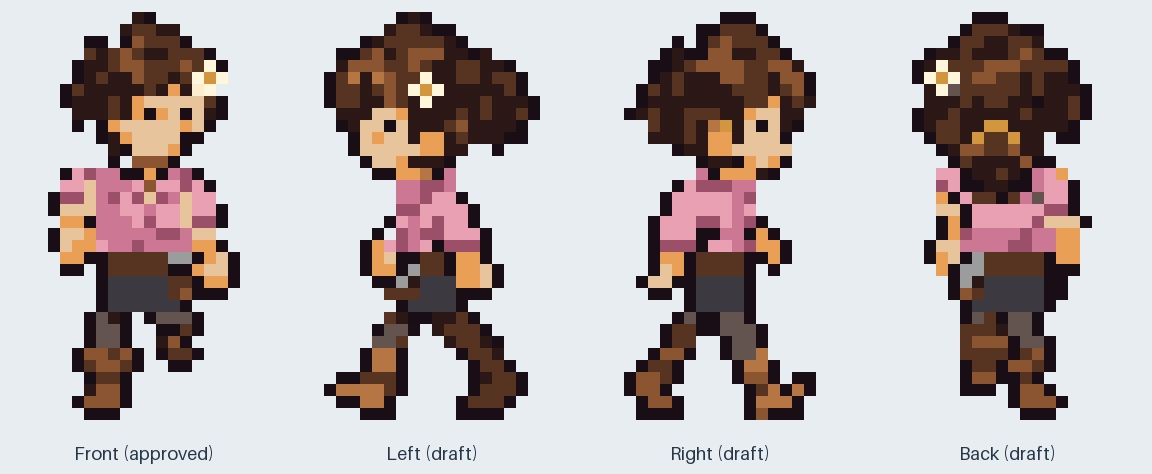
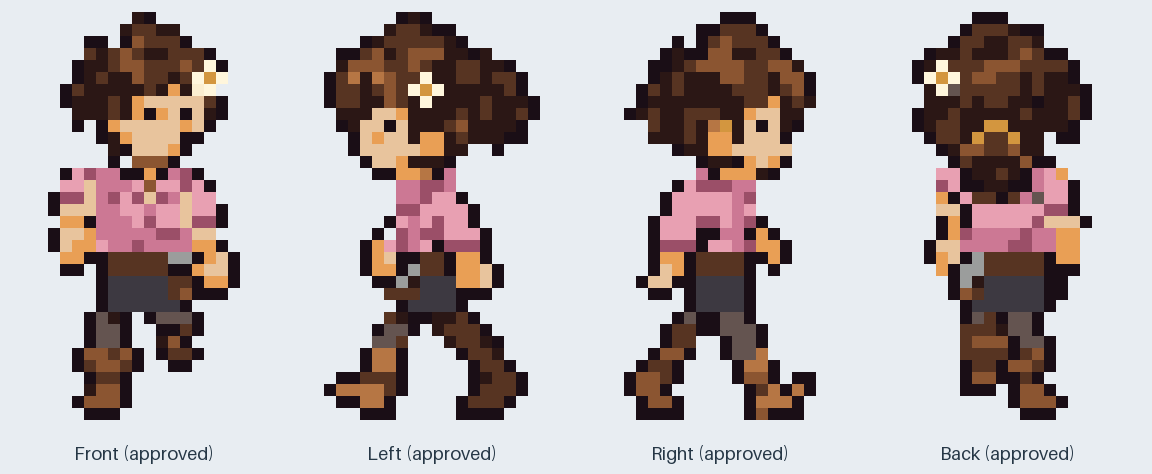
Record approval of all Mira walking directions

Changed region(s): [[0.8125, 0.9451, 0.9375, 0.9747], [0.5625, 0.9451, 0.6875, 0.9747], [0.3125, 0.9451, 0.4375, 0.9747]]

diff --git a/assets/characters/mira/walk_right/README.md b/assets/characters/mira/walk_right/README.md
@@ -1,6 +1,6 @@
 # Mira — right-facing walk
 
-Status: draft awaiting user review. The approved front walk is unchanged.
+Status: approved by the user in chat. The approved front walk is unchanged.
 
 - `frame_01.png`–`frame_04.png`: four transparent native 24×36 frames.
 - `spritesheet.png`: transparent 96×36 strip in playback order.
@@ -12,7 +12,7 @@ Status: draft awaiting user review. The approved front walk is unchanged.
 
 This cycle uses Caelan's approved right walk as the pose template. Its paired lower-leg/boot artwork is reused exactly; arm material masks preserve the source pose while applying Mira's pink shirt, rolled sleeve edges and bare forearms. Her shirt, waist and pouch are separate appearance parts. Her head, face where visible, ponytail and flower move together with the shoulders on passing frames 2 and 4, preserving neck height.
 
-The new facing appearance is prepared under `../../../source/characters/mira/directions/`. These appearance inputs are new art proposals; the walking poses themselves are assembled procedurally from retained masks, not independently generated. Her flower and tool pouch stay on anatomical left, visible in left profile and on viewer-left from behind, and hidden on the far side in right profile.
+The new facing appearance is prepared under `../../../source/characters/mira/directions/`. These appearance inputs are approved; the walking poses themselves are assembled procedurally from retained masks, not independently generated. Her flower and tool pouch stay on anatomical left, visible in left profile and on viewer-left from behind, and hidden on the far side in right profile.
 
 ## Rebuild
 
@@ -22,4 +22,4 @@ From the repository root with `tools/requirements-assets.txt` installed:
 python tools/build_character_walk.py mira --direction right
 ```
 
-Add `--refresh-template` to regenerate the retained pose masks from the approved references. All motion offsets are already baked into the PNGs. Review the new facing appearance, stride, clothing and accessory continuity before approval.
+Add `--refresh-template` to regenerate the retained pose masks from the approved references. All motion offsets are already baked into the PNGs. The facing appearance, stride, clothing and accessory continuity are approved.

diff --git a/assets/characters/mira/walk_back/README.md b/assets/characters/mira/walk_back/README.md
@@ -1,6 +1,6 @@
 # Mira — back-facing walk
 
-Status: draft awaiting user review. The approved front walk is unchanged.
+Status: approved by the user in chat. The approved front walk is unchanged.
 
 - `frame_01.png`–`frame_04.png`: four transparent native 24×36 frames.
 - `spritesheet.png`: transparent 96×36 strip in playback order.
@@ -12,7 +12,7 @@ Status: draft awaiting user review. The approved front walk is unchanged.
 
 This cycle uses Caelan's approved back walk as the pose template. Its paired lower-leg/boot artwork is reused exactly; arm material masks preserve the source pose while applying Mira's pink shirt, rolled sleeve edges and bare forearms. Her shirt, waist and pouch are separate appearance parts. Her head, face where visible, ponytail and flower move together with the shoulders on passing frames 2 and 4, preserving neck height.
 
-The new facing appearance is prepared under `../../../source/characters/mira/directions/`. These appearance inputs are new art proposals; the walking poses themselves are assembled procedurally from retained masks, not independently generated. Her flower and tool pouch stay on anatomical left, visible in left profile and on viewer-left from behind, and hidden on the far side in right profile.
+The new facing appearance is prepared under `../../../source/characters/mira/directions/`. These appearance inputs are approved; the walking poses themselves are assembled procedurally from retained masks, not independently generated. Her flower and tool pouch stay on anatomical left, visible in left profile and on viewer-left from behind, and hidden on the far side in right profile.
 
 ## Rebuild
 
@@ -22,4 +22,4 @@ From the repository root with `tools/requirements-assets.txt` installed:
 python tools/build_character_walk.py mira --direction back
 ```
 
-Add `--refresh-template` to regenerate the retained pose masks from the approved references. All motion offsets are already baked into the PNGs. Review the new facing appearance, stride, clothing and accessory continuity before approval.
+Add `--refresh-template` to regenerate the retained pose masks from the approved references. All motion offsets are already baked into the PNGs. The facing appearance, stride, clothing and accessory continuity are approved.

diff --git a/assets/characters/mira/walk_left/README.md b/assets/characters/mira/walk_left/README.md
@@ -1,6 +1,6 @@
 # Mira — left-facing walk
 
-Status: draft awaiting user review. The approved front walk is unchanged.
+Status: approved by the user in chat. The approved front walk is unchanged.
 
 - `frame_01.png`–`frame_04.png`: four transparent native 24×36 frames.
 - `spritesheet.png`: transparent 96×36 strip in playback order.
@@ -12,7 +12,7 @@ Status: draft awaiting user review. The approved front walk is unchanged.
 
 This cycle uses Caelan's approved left walk as the pose template. Its paired lower-leg/boot artwork is reused exactly; arm material masks preserve the source pose while applying Mira's pink shirt, rolled sleeve edges and bare forearms. Her shirt, waist and pouch are separate appearance parts. Her head, face where visible, ponytail and flower move together with the shoulders on passing frames 2 and 4, preserving neck height.
 
-The new facing appearance is prepared under `../../../source/characters/mira/directions/`. These appearance inputs are new art proposals; the walking poses themselves are assembled procedurally from retained masks, not independently generated. Her flower and tool pouch stay on anatomical left, visible in left profile and on viewer-left from behind, and hidden on the far side in right profile.
+The new facing appearance is prepared under `../../../source/characters/mira/directions/`. These appearance inputs are approved; the walking poses themselves are assembled procedurally from retained masks, not independently generated. Her flower and tool pouch stay on anatomical left, visible in left profile and on viewer-left from behind, and hidden on the far side in right profile.
 
 ## Rebuild
 
@@ -22,4 +22,4 @@ From the repository root with `tools/requirements-assets.txt` installed:
 python tools/build_character_walk.py mira --direction left
 ```
 
-Add `--refresh-template` to regenerate the retained pose masks from the approved references. All motion offsets are already baked into the PNGs. Review the new facing appearance, stride, clothing and accessory continuity before approval.
+Add `--refresh-template` to regenerate the retained pose masks from the approved references. All motion offsets are already baked into the PNGs. The facing appearance, stride, clothing and accessory continuity are approved.

diff --git a/assets/characters/mira/README.md b/assets/characters/mira/README.md
@@ -1,6 +1,6 @@
 # Mira — front idle
 
-Design status: finalized and approved by the user in chat. Front-walk status: approved. The separate front idle remains a draft appearance reference.
+Design status: finalized and approved by the user in chat. All four walking directions and their facing appearances are approved. The separate front idle remains a draft appearance reference.
 
 ## Approved design
 
@@ -33,7 +33,7 @@ Three transparent full-frame assembly layers are retained in `../../source/chara
 
 The [four-frame front walk](walk_front/README.md) is approved, assembled with the reusable pose-and-parts workflow. The corrected idle remains unchanged. Prepared shirt, waist, pouch, arm references, leg references and materialized posed arms are retained under `../../source/characters/mira/walk_front/parts/` and the corresponding new direction folders. The preserved story documents and Caelan artwork are unchanged.
 
-Matching [left](walk_left/README.md), [right](walk_right/README.md) and [back](walk_back/README.md) cycles, including their new facing appearances, are drafts awaiting review. The flower remains on anatomical left rather than being mirrored onto the right side.
+Matching [left](walk_left/README.md), [right](walk_right/README.md) and [back](walk_back/README.md) cycles, including their new facing appearances, are approved. The flower remains on anatomical left rather than being mirrored onto the right side.
 
 - `walk_directions.png`: native 96×144 sheet with front, left, right and back rows, four frames per row.
 - `walk_directions.json`: frame rectangles, per-direction approval status and animation references.

diff --git a/README.md b/README.md
@@ -26,4 +26,4 @@ Matching [left](assets/characters/caelan/walk_left/README.md), [right](assets/ch
 
 Her [front walking animation](assets/characters/mira/walk_front/README.md) is approved. It is assembled from character-specific parts and the shared Caelan pose template using the [repeatable asset builder](tools/README.md).
 
-Her [left](assets/characters/mira/walk_left/README.md), [right](assets/characters/mira/walk_right/README.md) and [back](assets/characters/mira/walk_back/README.md) walks and new facing appearances are drafts awaiting review. The [combined looping preview](assets/characters/mira/walk_directions_review.gif) shows all four directions together.
+Her [left](assets/characters/mira/walk_left/README.md), [right](assets/characters/mira/walk_right/README.md) and [back](assets/characters/mira/walk_back/README.md) walks and new facing appearances are approved. The [combined looping preview](assets/characters/mira/walk_directions_review.gif) shows all four directions together.

diff --git a/assets/source/characters/mira/directions/README.md b/assets/source/characters/mira/directions/README.md
@@ -1,6 +1,6 @@
 # Mira — new facing appearance inputs
 
-Status: draft; reviewed as part of the new walking animations.
+Status: approved by the user as part of the directional walking animations.
 
 `turnaround_concept.png` is generated appearance reference art for back, left and right views, using Mira's front design and Caelan's directional scale guide. It is not a walking animation source.
 
